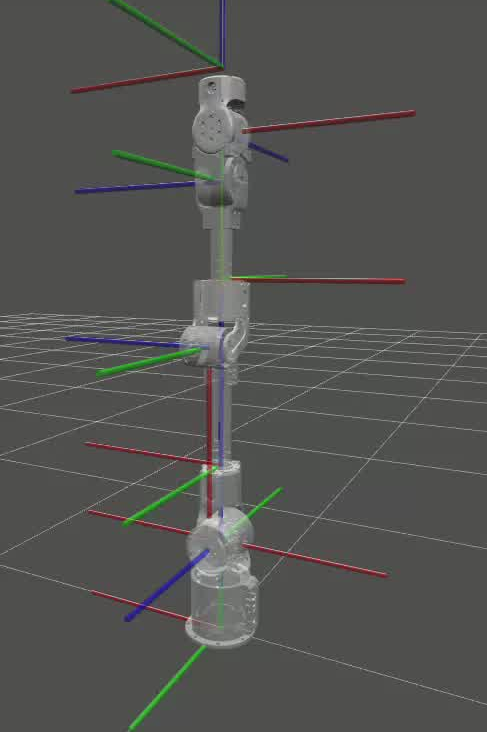
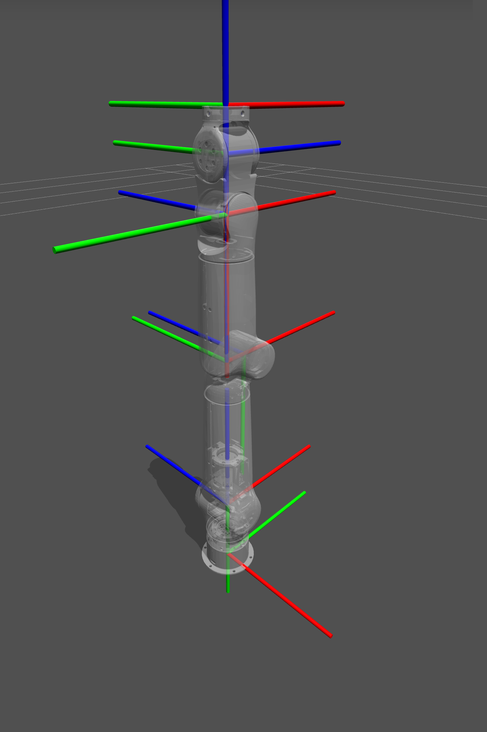
docs: point the SE manuals at the shelled URDF package (#27)
* docs: point the SE manuals at the shelled URDF package

* docs: drop the shell note from the SE manuals

* docs: refresh the SE screenshots for the new URDF

diff --git a/LITEARM-SE-software-development-manual.md b/LITEARM-SE-software-development-manual.md
@@ -503,7 +503,7 @@ with PyBulletArm(render=True) as arm:            # connect() is implicit
 | C++ SDK | https://github.com/nexform-tech/litearm-cpp |
 | ROS 2 control stack | https://github.com/nexform-tech/litearm-ros2-control |
 | ROS 2 maintenance driver | https://github.com/nexform-tech/litearm-ros2 |
-| URDF description | https://github.com/nexform-tech/litearm-description |
+| URDF description | https://github.com/nexform-tech/litearm-description/tree/main/SE/litearm_description |
 | MoveIt 2 | https://github.com/nexform-tech/litearm-moveit2 |
 | Host application | https://github.com/nexform-tech/litearm-studio |
 | Installation guide | https://github.com/nexform-tech/litearm-setup |
@@ -626,7 +626,7 @@ source install/setup.bash
 ros2 launch litearm_description display.launch.py
 ```
 
-RViz2 opens and shows the arm, with a slider per joint in the joint state GUI. The kinematic chain is `base_link → Link1 … → Link7 → ee_frame_link`, and the meshes are the STL files under `meshes/`.
+RViz2 opens and shows the arm, with a slider per joint in the joint state GUI. The kinematic chain is `base_link → joint1 → … → joint7 → ee_link`, and the meshes are the STL files under `meshes/`.
 
 ## FAQ and support
 

diff --git a/LITEARM-SE-product-manual.md b/LITEARM-SE-product-manual.md
@@ -228,7 +228,7 @@ arm.params.set_joint_limits(0, -2.8, 2.8)     # write joint by joint: narrows on
 
 ### Home pose and frames
 
-- With the arm mounted the default way — on a tabletop, base horizontal — the base frame has its origin at the centre of the base mounting face, with Z pointing straight up, opposite the default gravity direction, and X and Y in the mounting plane following the right-hand rule. The tool frame, TCP, sits at the end flange. Figure 2 marks the base and tool frames. The URDF and the simulations (`base_link` and `ee_frame_link`) and the real arm are the authority on the actual orientation.
+- With the arm mounted the default way — on a tabletop, base horizontal — the base frame has its origin at the centre of the base mounting face, with Z pointing straight up, opposite the default gravity direction, and X and Y in the mounting plane following the right-hand rule. The tool frame, TCP, sits at the end flange. Figure 2 marks the base and tool frames. The URDF and the simulations (`base_link` and `ee_link`) and the real arm are the authority on the actual orientation.
 
 ![Zero pose and frame annotations](LITEARM_SE_images/placeholders/ph_pm_coord.png)
 

diff --git a/LITEARM SE软件开发手册.md b/LITEARM SE软件开发手册.md
@@ -504,7 +504,7 @@ with PyBulletArm(render=True) as arm:            # connect() 隐含
 | C++ SDK | https://github.com/nexform-tech/litearm-cpp |
 | ROS 2 控制栈 | https://github.com/nexform-tech/litearm-ros2-control |
 | ROS 2 维护驱动 | https://github.com/nexform-tech/litearm-ros2 |
-| URDF 描述 | https://github.com/nexform-tech/litearm-description |
+| URDF 描述 | https://github.com/nexform-tech/litearm-description/tree/main/SE/litearm_description |
 | MoveIt 2 | https://github.com/nexform-tech/litearm-moveit2 |
 | 上位机软件 | https://github.com/nexform-tech/litearm-studio |
 | 安装教程 | https://github.com/nexform-tech/litearm-setup |
@@ -627,7 +627,7 @@ source install/setup.bash
 ros2 launch litearm_description display.launch.py
 ```
 
-RViz2 会打开并显示该臂，关节状态 GUI 为每个关节提供一根滑条。运动链为 `base_link → Link1 … → Link7 → ee_frame_link`，网格为 `meshes/` 下的 STL。
+RViz2 会打开并显示该臂，关节状态 GUI 为每个关节提供一根滑条。运动链为 `base_link → joint1 → … → joint7 → ee_link`，网格为 `meshes/` 下的 STL。
 
 ## 常见问题与技术支持
 

diff --git a/LITEARM_SE产品手册.md b/LITEARM_SE产品手册.md
@@ -229,7 +229,7 @@ arm.params.set_joint_limits(0, -2.8, 2.8)     # 逐关节写：只允许收窄
 
 ### 机械臂零位与坐标系
 
-- 机械臂默认安装（台面安装、基座水平）时，基坐标系以基座安装面中心为原点，Z 轴竖直向上（与默认重力方向相反），X/Y 轴按右手定则位于安装面内；工具坐标系（TCP）位于末端法兰处，基坐标系与工具坐标系的标注如图2所示。实际朝向请以 URDF/仿真（base_link 与 ee_frame_link）或实机为准。
+- 机械臂默认安装（台面安装、基座水平）时，基坐标系以基座安装面中心为原点，Z 轴竖直向上（与默认重力方向相反），X/Y 轴按右手定则位于安装面内；工具坐标系（TCP）位于末端法兰处，基坐标系与工具坐标系的标注如图2所示。实际朝向请以 URDF/仿真（base_link 与 ee_link）或实机为准。
 
 ![零位与坐标系标注图](LITEARM_SE_images/placeholders/ph_pm_coord.png)
 
